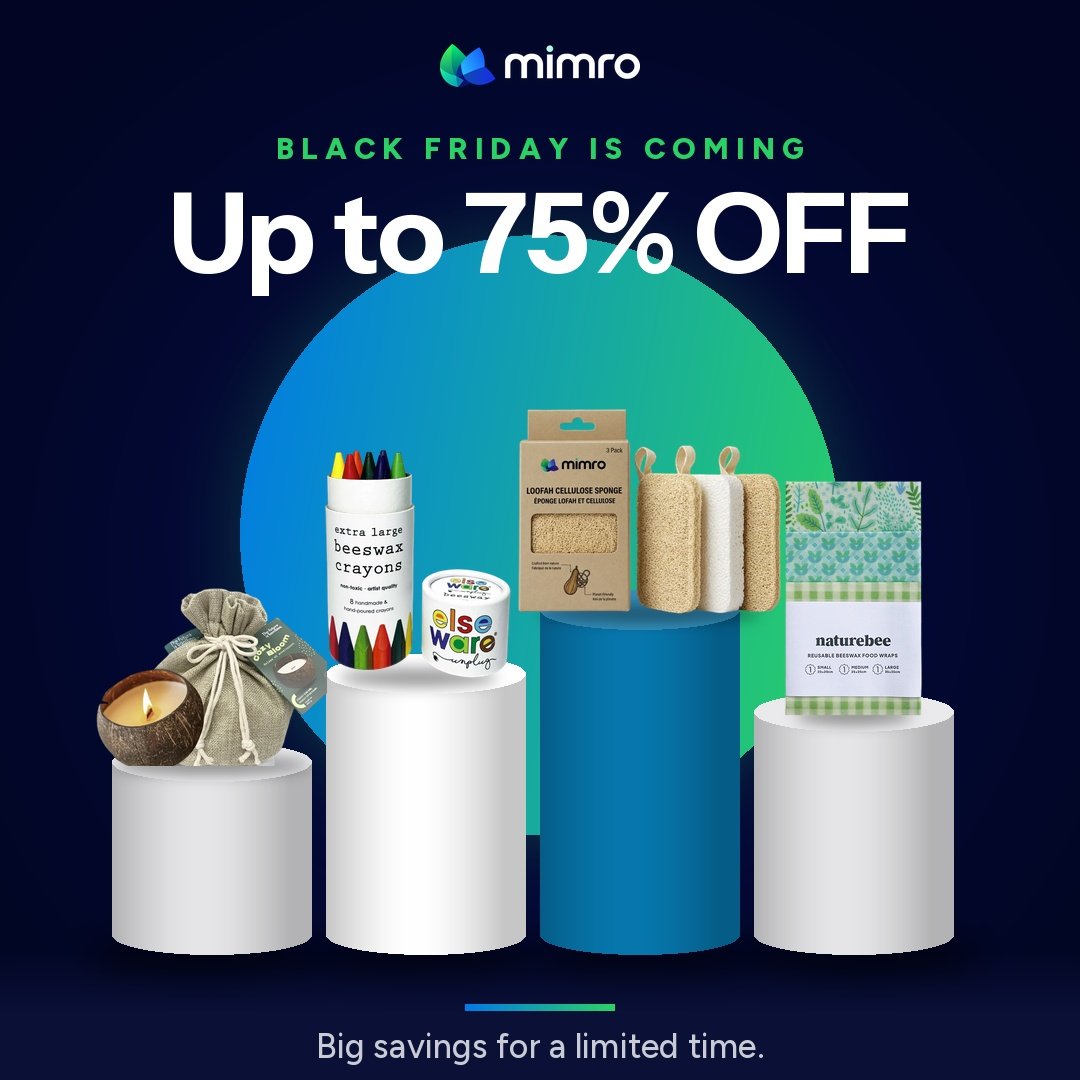
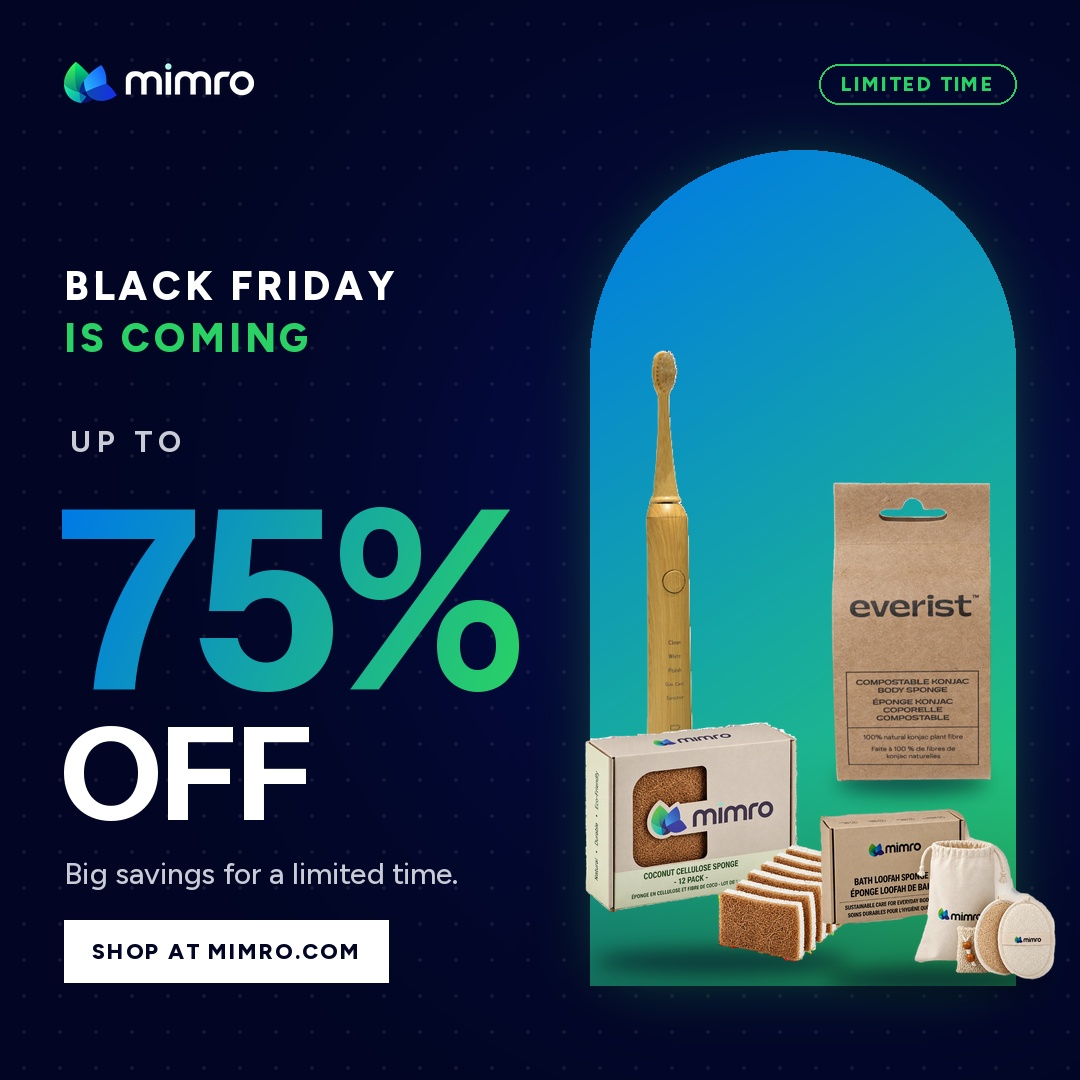
Black Friday teaser v2: new editorial concept and new product set
Claude-Session: https://claude.ai/code/session_01NAdrPTam75Ss9kLmxSuENc

diff --git a/blackfriday_post/README.md b/blackfriday_post/README.md
@@ -3,10 +3,16 @@
 Image: mimro_black_friday_teaser_1x1.jpg (1080×1080)
 
 Copy on image:
-- BLACK FRIDAY IS COMING
-- Up to 75% OFF
+- BLACK FRIDAY / IS COMING
+- UP TO 75% OFF
 - Big savings for a limited time.
+- CTA: SHOP AT MIMRO.COM · pill: LIMITED TIME
 
-Style: same modern Mimro brand system as the Halloween post (podiums + signature gradient circle #007AE7→#2AD265, Instrument Sans Bold / Figtree, official logo), dark navy #020624 → #08126C background for Black Friday, centre podium in site blue #0777AD.
+Concept (v2): editorial split layout — left: typographic stack with giant gradient "75%"; right: tall brand-gradient arch with a product group; navy #020624 → #08126C background with subtle dot grid.
+Brand system: signature gradient #007AE7 → #2AD265, Instrument Sans Bold (headings) + Figtree (body) as on mimro.com, official white mimro logo, square white CTA (Eco-Quest button style).
 
-Products (real product photos, backgrounds removed): Cozy Bloom Coconut Shell Candle, ELSEWARE UNPLUG XL Beeswax Crayons, MIMRO Loofah Cellulose Sponge 3 Pack (hero), NATURE BEE Beeswax Wraps.
+Products (real product photos, backgrounds removed):
+- VEARTHY Bamboo Electric Toothbrush
+- EVERIST Compostable Konjac Body Sponge
+- MIMRO Coconut Cellulose Kitchen Sponge (12 pack)
+- MIMRO Natural Loofah Bath Set
